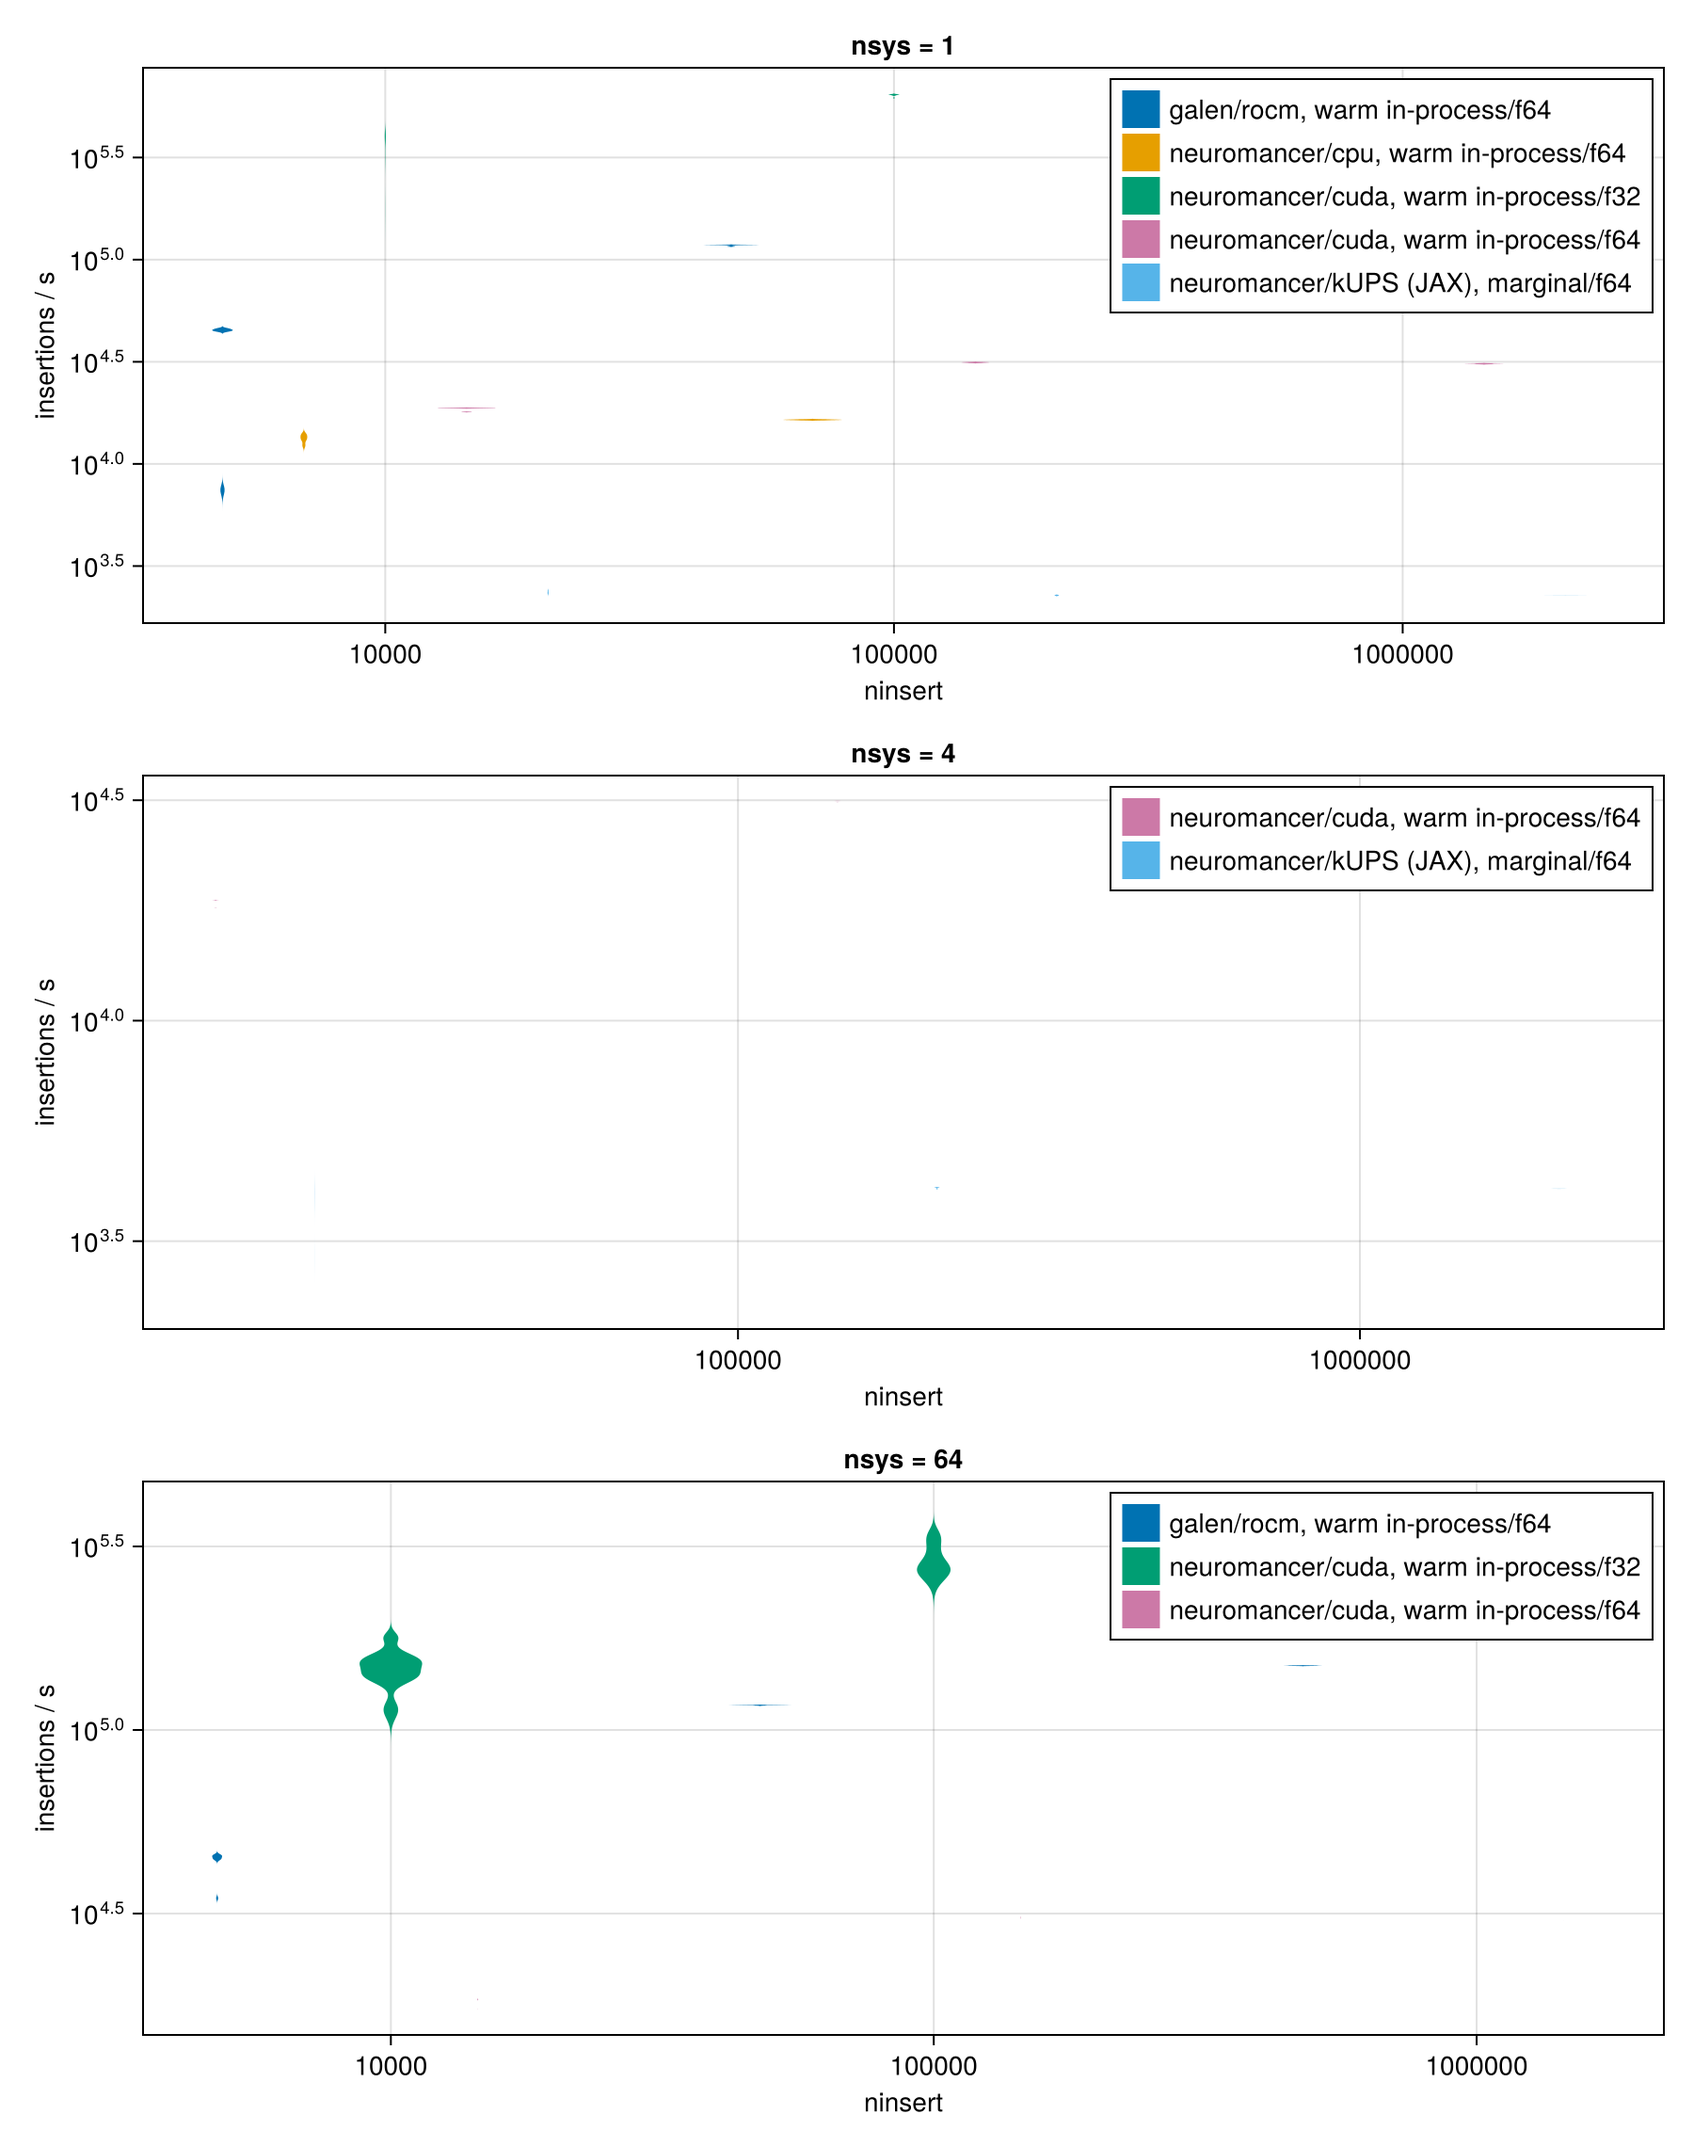
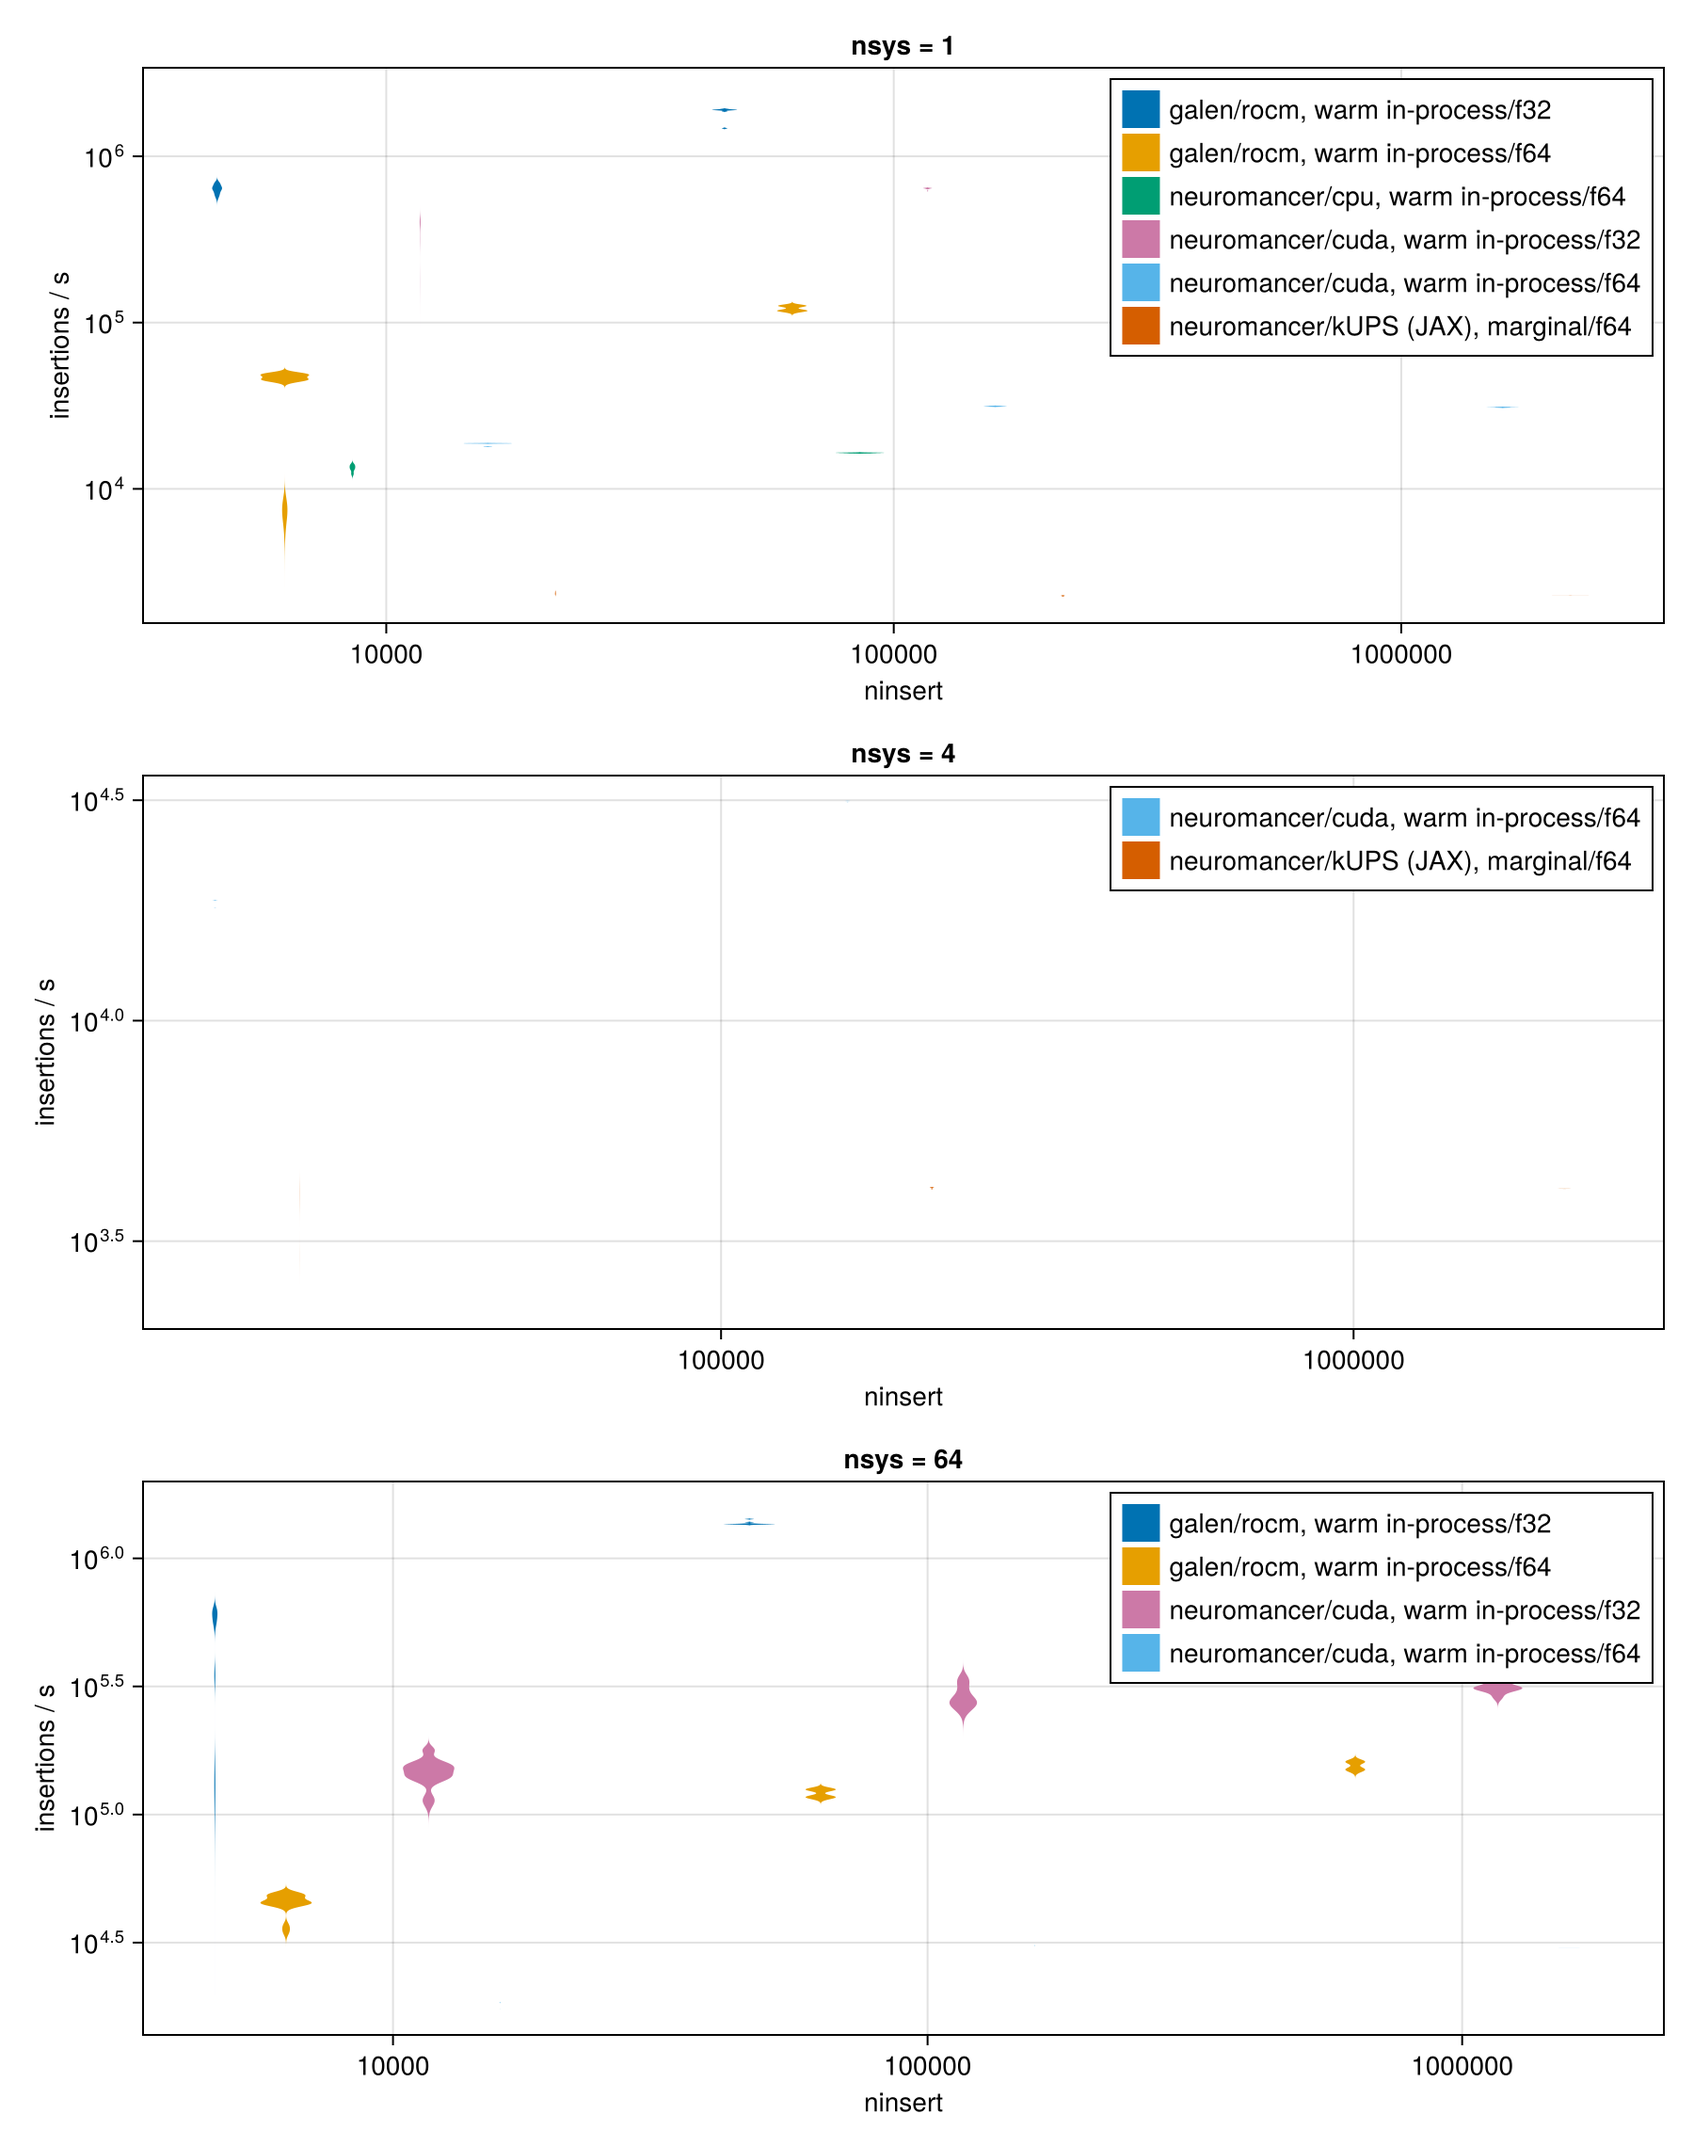
Document R9700 f32 throughput and batch-size scaling
Updates the R9700 throughput tables to the 2026-09-20 Float64/Float32
runs and adds a "Throughput against batch size" section covering
bench/widom_scaling.jl: per-precision tables up to the largest batch
tested (98,304 frameworks Float64, 196,608 Float32), the effective
data rate at the plateau, and the round-robin per-work-item table
assignment. Adds bench/plot_scaling.jl and docs/src/assets/widom_scaling.png,
regenerates widom_throughput.png, and updates index.md and
bench/results/README.md with the new file names and a scaling-benchmark
pointer.

Assisted-by: Claude Sonnet 5 <noreply@anthropic.com>
Claude-Session: https://claude.ai/code/session_01MqhrLpP6VncWSEax6RKaBx

diff --git a/docs/src/benchmarks.md b/docs/src/benchmarks.md
@@ -34,14 +34,27 @@ Kernel-only (one launch of `widom_kernel!` + synchronize on a 2¹⁶-pose chunk)
 
 | nsys | ninsert | median (s) | insertions/s | samples |
 |---|---|---|---|---|
-| 1 | 10,000 | 0.2215 | 45,137 | 10 |
-| 1 | 100,000 | 0.8471 | 118,051 | 10 |
-| 1 | 1,000,000 | 6.6292 | 150,849 | 5 |
-| 64 | 10,000 | 0.2225 | 44,951 | 10 |
-| 64 | 100,000 | 0.8548 | 116,981 | 10 |
-| 64 | 1,000,000 | 6.6768 | 149,773 | 5 |
+| 1 | 10,000 | 0.2051 | 48,746 | 10 |
+| 1 | 100,000 | 0.7902 | 126,543 | 10 |
+| 1 | 1,000,000 | 6.1742 | 161,964 | 5 |
+| 64 | 10,000 | 0.2078 | 48,117 | 10 |
+| 64 | 100,000 | 0.7978 | 125,347 | 10 |
+| 64 | 1,000,000 | 6.2174 | 160,840 | 5 |
 
-Kernel-only: nsys=1, 0.4224 s (155,142 ins/s); nsys=64, 0.4245 s (154,372 ins/s).
+Kernel-only: nsys=1, 0.3926 s (166,933 ins/s); nsys=64, 0.3947 s (166,031 ins/s).
+
+### AMD Radeon AI PRO R9700 (Float32, galen, ROCm)
+
+| nsys | ninsert | median (s) | insertions/s | samples |
+|---|---|---|---|---|
+| 1 | 10,000 | 0.01562 | 640,007 | 10 |
+| 1 | 100,000 | 0.05260 | 1,901,139 | 10 |
+| 1 | 1,000,000 | 0.42068 | 2,377,105 | 10 |
+| 64 | 10,000 | 0.01712 | 584,026 | 10 |
+| 64 | 100,000 | 0.07350 | 1,360,574 | 10 |
+| 64 | 1,000,000 | 0.63570 | 1,573,059 | 10 |
+
+Kernel-only: nsys=1, 0.02221 s (2,951,251 ins/s); nsys=64, 0.03701 s (1,770,550 ins/s).
 
 ### NVIDIA RTX 3050 (Float64, neuromancer, CUDA)
 
@@ -74,6 +87,69 @@ the Float64/Float32 gap on the RTX 3050 (roughly 20× at nsys=1) is far larger t
 Float64-only R9700 numbers above would suggest by themselves.
 
 ![Widom throughput per backend](assets/widom_throughput.png)
+
+## Throughput against batch size
+
+`bench/widom_scaling.jl` measures kernel throughput — one `widom_kernel!` launch plus
+synchronization, on a chunk of 262,144 insertions — against the number of frameworks (`nsys`)
+tiled into one batch, on the R9700 (galen, ROCm). One framework's host and Ewald tables are
+computed on the CPU and tiled onto the device; the batch stays on the device for the whole
+sweep, and each batch size runs in its own process.
+
+### Float64
+
+| frameworks | batch size (GiB) | median kernel insertions/s |
+|---|---|---|
+| 1 | 0.0003 | 170,210 |
+| 64 | 0.0197 | 169,137 |
+| 1,024 | 0.316 | 165,956 |
+| 8,192 | 2.525 | 165,841 |
+| 32,768 | 10.10 | 162,576 |
+| 65,536 | 20.20 | 161,946 |
+| 81,920 | 25.25 | 161,540 |
+| 90,112 | 27.78 | 161,492 |
+| 94,208 | 29.04 | 161,301 |
+| 98,304 | 30.30 | 161,019 |
+
+### Float32
+
+| frameworks | batch size (GiB) | median kernel insertions/s |
+|---|---|---|
+| 1 | 0.00016 | 3,299,882 |
+| 64 | 0.0102 | 1,786,096 |
+| 1,024 | 0.164 | 471,919 |
+| 8,192 | 1.310 | 321,149 |
+| 32,768 | 5.238 | 295,531 |
+| 65,536 | 10.48 | 294,262 |
+| 131,072 | 20.95 | 293,941 |
+| 163,840 | 26.19 | 293,881 |
+| 180,224 | 28.81 | 293,688 |
+| 188,416 | 30.12 | 293,678 |
+| 196,608 | 31.43 | 293,585 |
+
+Float64 throughput changes by about 5% from 1 to 98,304 frameworks (170,210 to 161,019
+insertions/s). Float32 falls from its one-framework value to a plateau reached by about
+32,768 frameworks (295,531 insertions/s), essentially flat out to 196,608 frameworks
+(293,585 insertions/s).
+
+At the plateau, `bytes_per_system` — the per-framework device bytes the kernel reads — times
+insertions/s gives an effective data rate: 330,984 B × 161,019 ins/s ≈ 53.3 GB/s (Float64, at
+98,304 frameworks) and 171,648 B × 293,585 ins/s ≈ 50.4 GB/s (Float32, at 196,608 frameworks).
+The two are close, consistent with the kernel being limited by memory traffic at large batch
+sizes; this is an inference from the throughput numbers above, not something confirmed with a
+profiler.
+
+With one framework, every work-item reads the same host and Ewald tables. With many
+frameworks, each work-item reads a different framework's tables, assigned round-robin
+(`sys_of[i] = mod1(i, nsys)` in `random_poses!`, `src/widom.jl`). A screening run over distinct
+frameworks is the many-framework case, so it operates at the large-batch figures above, not the
+one-framework figures.
+
+No batch size in this sweep failed to allocate; 98,304 frameworks (Float64, 30.3 GiB) and
+196,608 frameworks (Float32, 31.4 GiB) are the largest sizes tested on this card, not a
+measured failure point.
+
+![Widom kernel throughput vs batch size](assets/widom_scaling.png)
 
 ## kUPS head-to-head (RTX 3050, Float64)
 
@@ -128,6 +204,13 @@ above). kUPS is also Float64-only for this workload — `jax_enable_x64` is forc
 `kups.application.simulations.mcmc_widom` — so no Float32 comparison point exists for kUPS;
 PureAdsorb's Float32 numbers are reported above for reference.
 
+The kUPS figures above are on the 6 GB RTX 3050 (neuromancer); kUPS was not run on the R9700.
+For comparison, in the same units, PureAdsorb's own per-framework device footprint
+(`bytes_per_system` in `bench/widom_scaling.jl`) is 330,984 B ≈ 0.000308 GiB (Float64) and
+171,648 B ≈ 0.000160 GiB (Float32) — measured on the 32 GB R9700 (galen), where the "Throughput
+against batch size" section above runs batches up to 98,304 (Float64) and 196,608 (Float32)
+frameworks.
+
 ## Caveats
 
 - Single card per measurement; the RTX 3050 sits behind a Thunderbolt eGPU enclosure, and
@@ -157,12 +240,25 @@ PA_BACKEND=cuda PA_GRID=4:1000000 PA_REPS=5 julia --project=bench/gpu bench/wido
 # kUPS + PureAdsorb interleaved head-to-head (needs a kUPS checkout outside this repo)
 bench/run_headtohead.sh
 
-# Regenerate the plot above and the docs figure from the committed JSON only
+# Kernel throughput vs number of frameworks in a batch
+PA_BACKEND=rocm PA_PRECISION=f64 julia --project=bench/gpu bench/widom_scaling.jl
+PA_BACKEND=rocm PA_PRECISION=f32 julia --project=bench/gpu bench/widom_scaling.jl
+
+# Near device capacity, one process per batch size: memory freed by a smaller batch is not
+# returned to the device within the process, so the next large allocation would otherwise stall
+PA_BACKEND=rocm PA_PRECISION=f64 PA_NSYS=81920 julia --project=bench/gpu bench/widom_scaling.jl
+PA_BACKEND=rocm PA_PRECISION=f64 PA_NSYS=90112 julia --project=bench/gpu bench/widom_scaling.jl
+PA_BACKEND=rocm PA_PRECISION=f64 PA_NSYS=98304 julia --project=bench/gpu bench/widom_scaling.jl
+
+# Regenerate the plots above and the docs figures from the committed JSON only
 julia --project=bench bench/plot_widom.jl
+julia --project=bench bench/plot_scaling.jl
 PA_PLOT_OUT=docs/src/assets/widom_throughput.png julia --project=bench bench/plot_widom.jl
+PA_PLOT_OUT=docs/src/assets/widom_scaling.png julia --project=bench bench/plot_scaling.jl
 ```
 
 `PA_BACKEND` selects `cpu` (default), `cuda` or `rocm`; `PA_PRECISION` selects `f64` (default)
-or `f32`; `PA_GRID` restricts the sweep to one `nsys:ninsert` point and `PA_REPS` sets its
-sample count. No plot is ever regenerated by re-running a benchmark — `plot_widom.jl` only
-reads `bench/results/*.json`.
+or `f32`; `PA_GRID` restricts a `widom_bench.jl` sweep to one `nsys:ninsert` point and `PA_REPS`
+sets its sample count; `PA_NSYS` restricts a `widom_scaling.jl` sweep to the given batch sizes
+(space-separated, increasing). No plot is ever regenerated by re-running a benchmark —
+`plot_widom.jl` and `plot_scaling.jl` only read `bench/results/*.json`.

diff --git a/bench/results/README.md b/bench/results/README.md
@@ -38,9 +38,14 @@ julia --project=bench bench/plot_widom.jl
 | host | GPU | backend | precision | result |
 |---|---|---|---|---|
 | neuromancer | — | cpu | f64 | `pureadsorb_widom_neuromancer_cpu_20260917.json` |
-| galen | AMD Radeon AI PRO R9700 (gfx1201, Navi48/RDNA4) | rocm | f64 | `pureadsorb_widom_galen_rocm_20260917.json` |
+| galen | AMD Radeon AI PRO R9700 (gfx1201, Navi48/RDNA4) | rocm | f64 | `pureadsorb_widom_galen_rocm_f64_20260920.json` |
+| galen | AMD Radeon AI PRO R9700 (gfx1201, Navi48/RDNA4) | rocm | f32 | `pureadsorb_widom_galen_rocm_f32_20260920.json` |
 | neuromancer | NVIDIA GeForce RTX 3050 6GB | cuda | f64 | `pureadsorb_widom_neuromancer_cuda_f64_20260919.json` |
 | neuromancer | NVIDIA GeForce RTX 3050 6GB | cuda | f32 | `pureadsorb_widom_neuromancer_cuda_f32_20260919.json` |
+
+The 2026-09-20 galen ROCm files supersede `pureadsorb_widom_galen_rocm_20260917.json` for the
+R9700 throughput tables in `docs/src/benchmarks.md`; the 2026-09-17 file stays committed but is
+not otherwise referenced.
 
 The RTX 3050 sits behind a Thunderbolt eGPU enclosure on neuromancer, and neuromancer's CPU
 clock is unpinned (see the top-level protocol note): its numbers are indicative only, never
@@ -48,6 +53,14 @@ gate-authoritative (galen and wintermute are the clock-locked, gate-authoritativ
 Consumer GeForce cards throttle double-precision throughput relative to a datacenter part, which
 is why the f64/f32 gap on this card (~20x insertions/s) is far larger than the AMD Radeon AI
 PRO R9700 numbers above.
+
+## Batch-size scaling
+
+`bench/widom_scaling.jl` measures kernel throughput against the number of frameworks in one
+batch, up to the largest batch each precision holds on the R9700 (galen, ROCm):
+`pureadsorb_widom_scaling_galen_rocm_f64_20260920.json` (up to 98,304 frameworks) and
+`pureadsorb_widom_scaling_galen_rocm_f32_20260920.json` (up to 196,608 frameworks). See
+`docs/src/benchmarks.md`, "Throughput against batch size".
 
 ## Precision
 

diff --git a/docs/src/index.md b/docs/src/index.md
@@ -60,4 +60,5 @@ res[1].K_H, res[1].mu_ex, res[1].q_st, res[1].K_H_err
 
 See [Theory](theory.md) for the physics, [Design](design.md) for the architecture,
 [Validation](validation.md) for the test oracles and the kUPS comparison, and
-[Benchmarks](benchmarks.md) for throughput numbers.
+[Benchmarks](benchmarks.md) for throughput numbers, including kernel throughput against batch
+size on the R9700.
